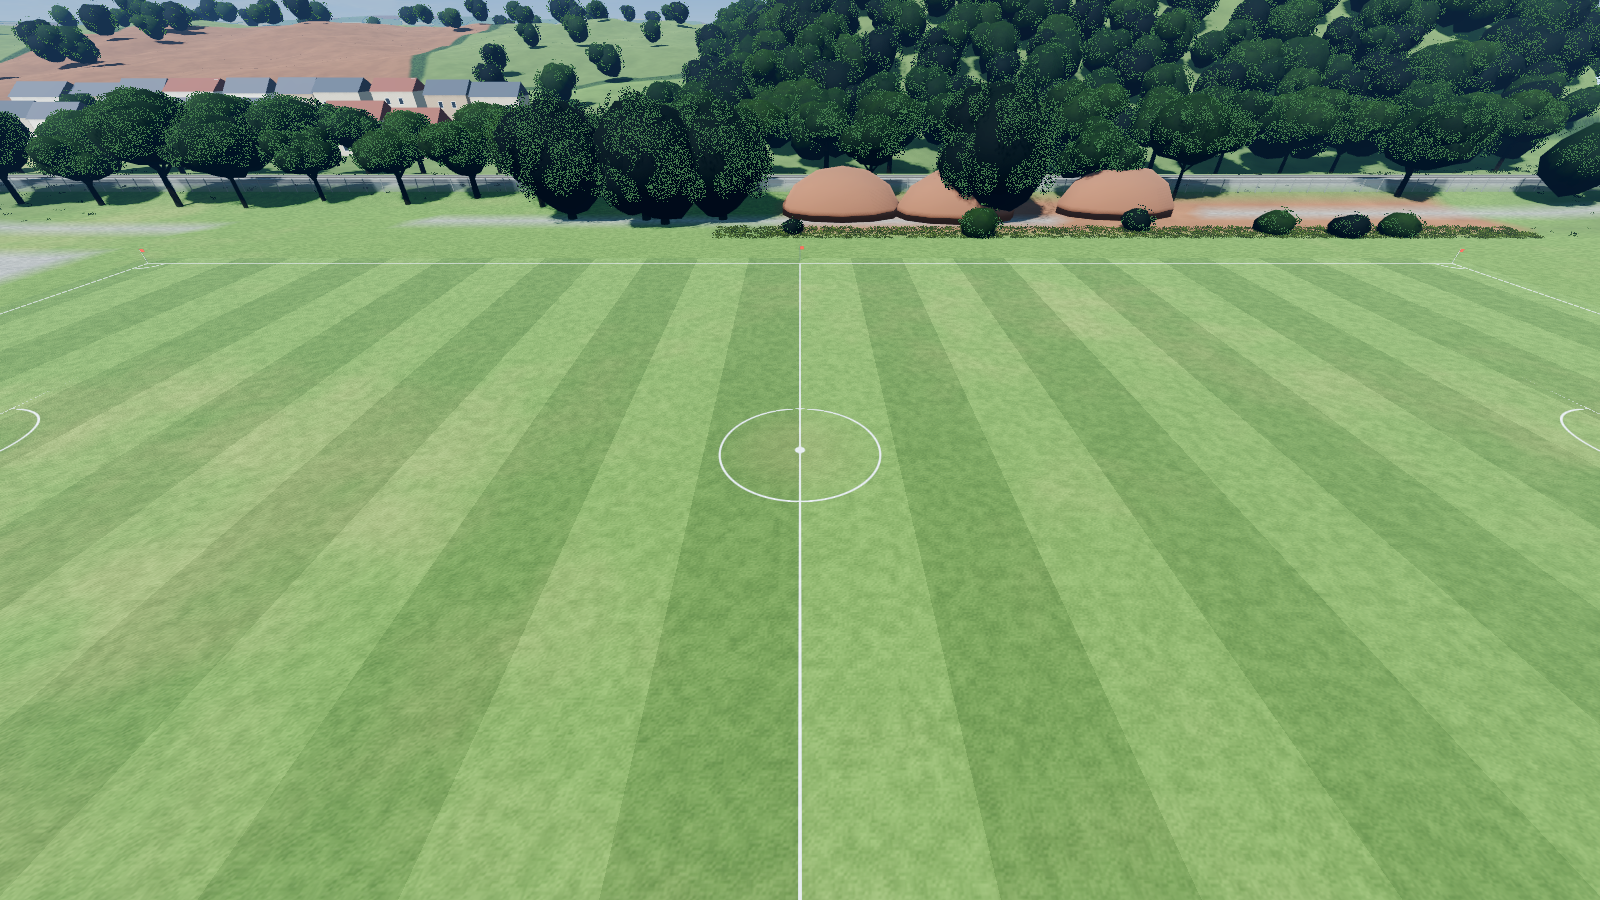
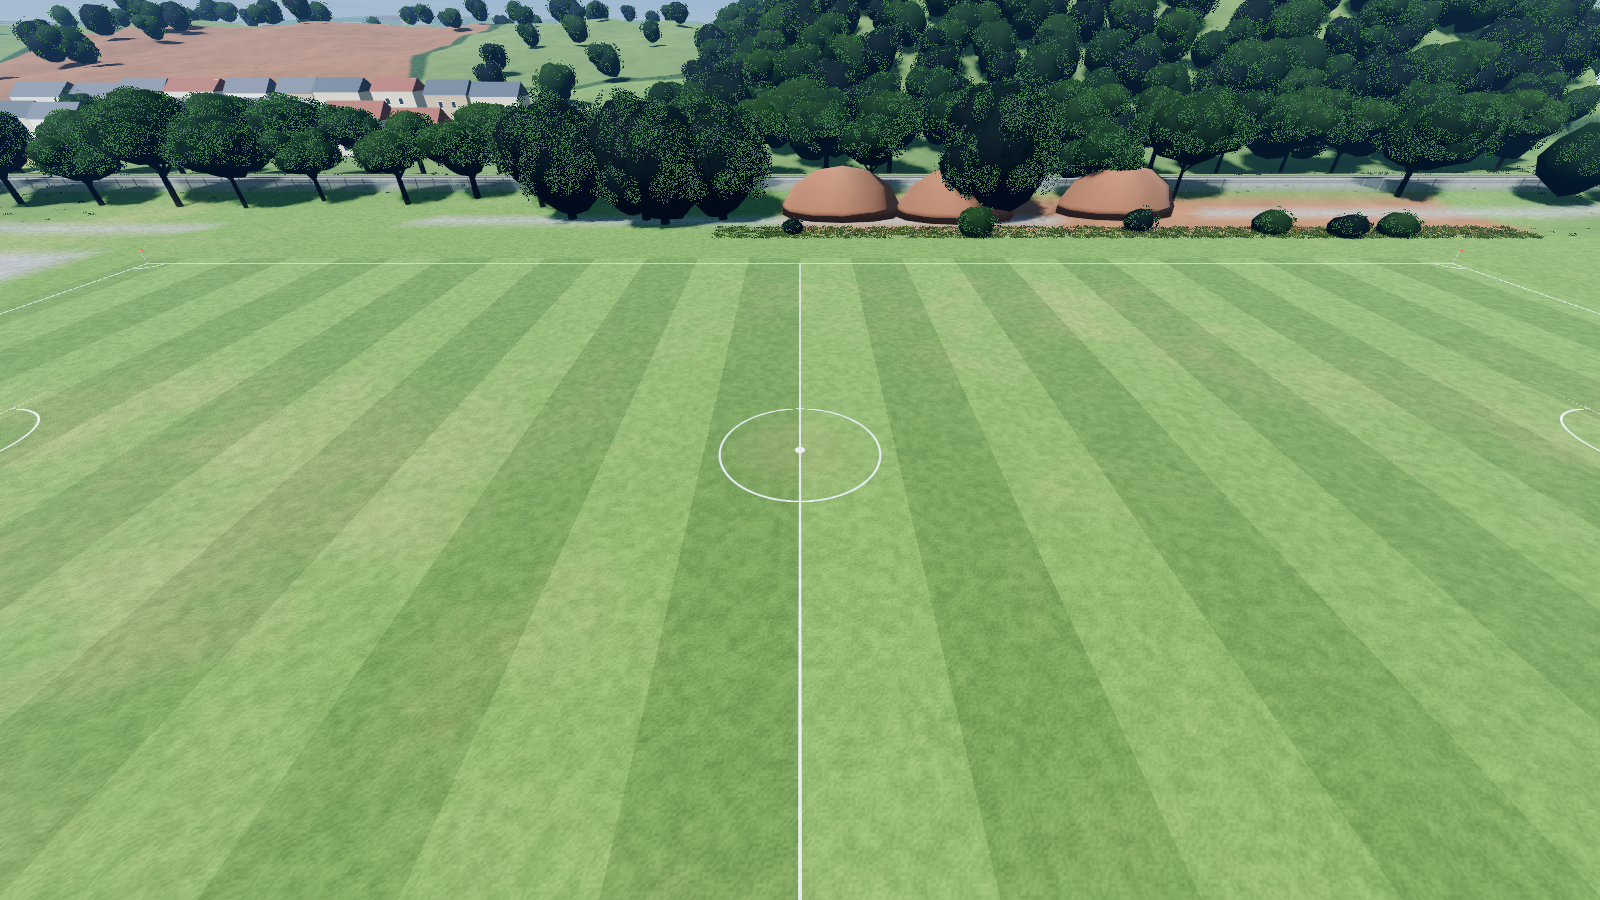
Remove the flags at the halfway line
Shinty pitches have corner flags only, so the pitch no longer plants one
at each end of the halfway line. Applies to all three grounds.

Claude-Session: https://claude.ai/code/session_01CpMB39MJ7LBnKyWwSPSX3E

diff --git a/docs/pitch.md b/docs/pitch.md
@@ -18,7 +18,7 @@ it for a match, and picking a home team moves the match to that team's ground.
   penalty spots at 20 yards with 5-yard arcs, 2-yard corner arcs. The ground
   shader draws them, so they stay sharp and follow any pitch size.
 - Mowing stripes, worn goalmouths, placeholder hails (12 ft x 10 ft), corner
-  and halfway flags, and a physics floor (StaticBody3D, layer 1).
+  flags, and a physics floor (StaticBody3D, layer 1).
 - Lighting presets: summer afternoon, summer evening, overcast. Custom sky
   with sun-lit cumulus and high wisps, blue distance haze, soft four-split
   shadows, AgX tone mapping and glow.
